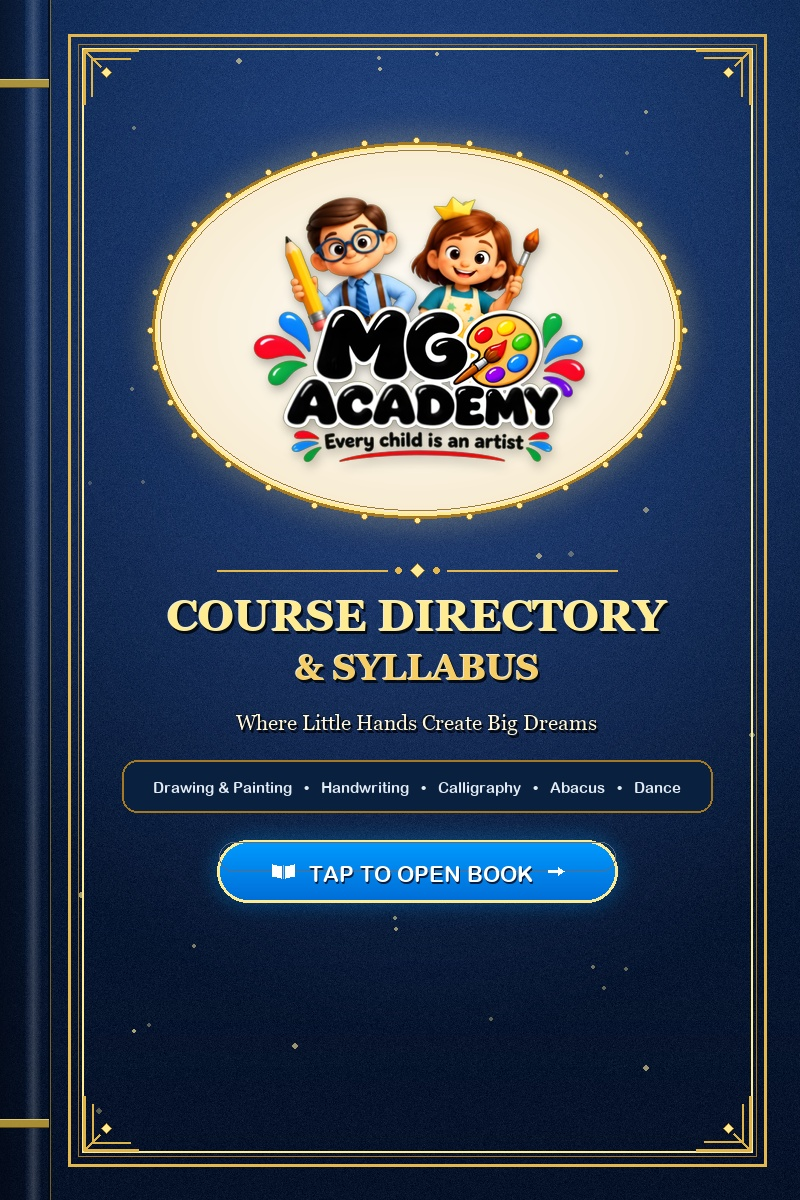
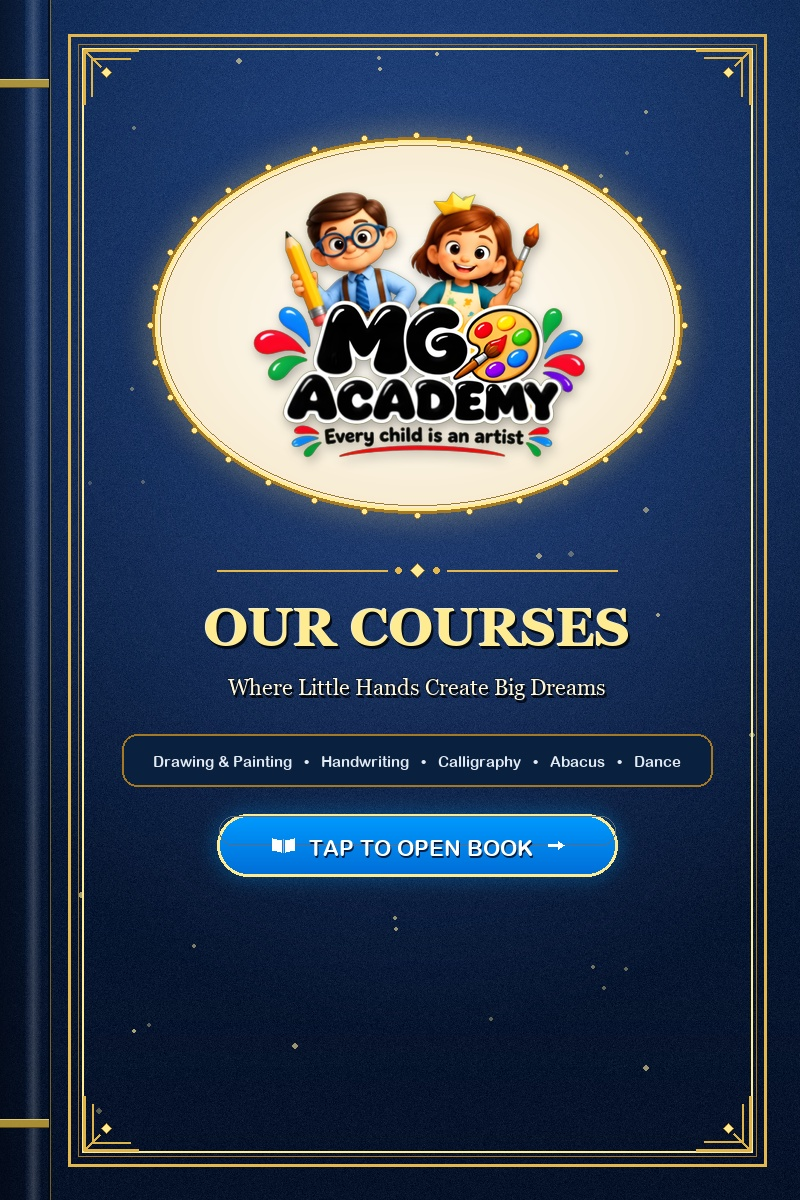
fix(mobile-book): change book cover title to 'OUR COURSES'

diff --git a/index.html b/index.html
@@ -410,7 +410,7 @@
                 <div class="book-cover-front backface-hidden">
                   <div class="book-cover-bg" style="background-image: url('./assets/book_cover_front.jpg');"></div>
                   <div class="book-cover-sheen" aria-hidden="true"></div>
-                  <span class="sr-only">MG Academy Course Directory &amp; Syllabus - Admissions 2026-27. Click to Open Book.</span>
+                  <span class="sr-only">MG Academy - Our Courses. Click to Open Book.</span>
                 </div>
 
                 <!-- Back Face (Inner Front Cover - Table of Contents) -->
